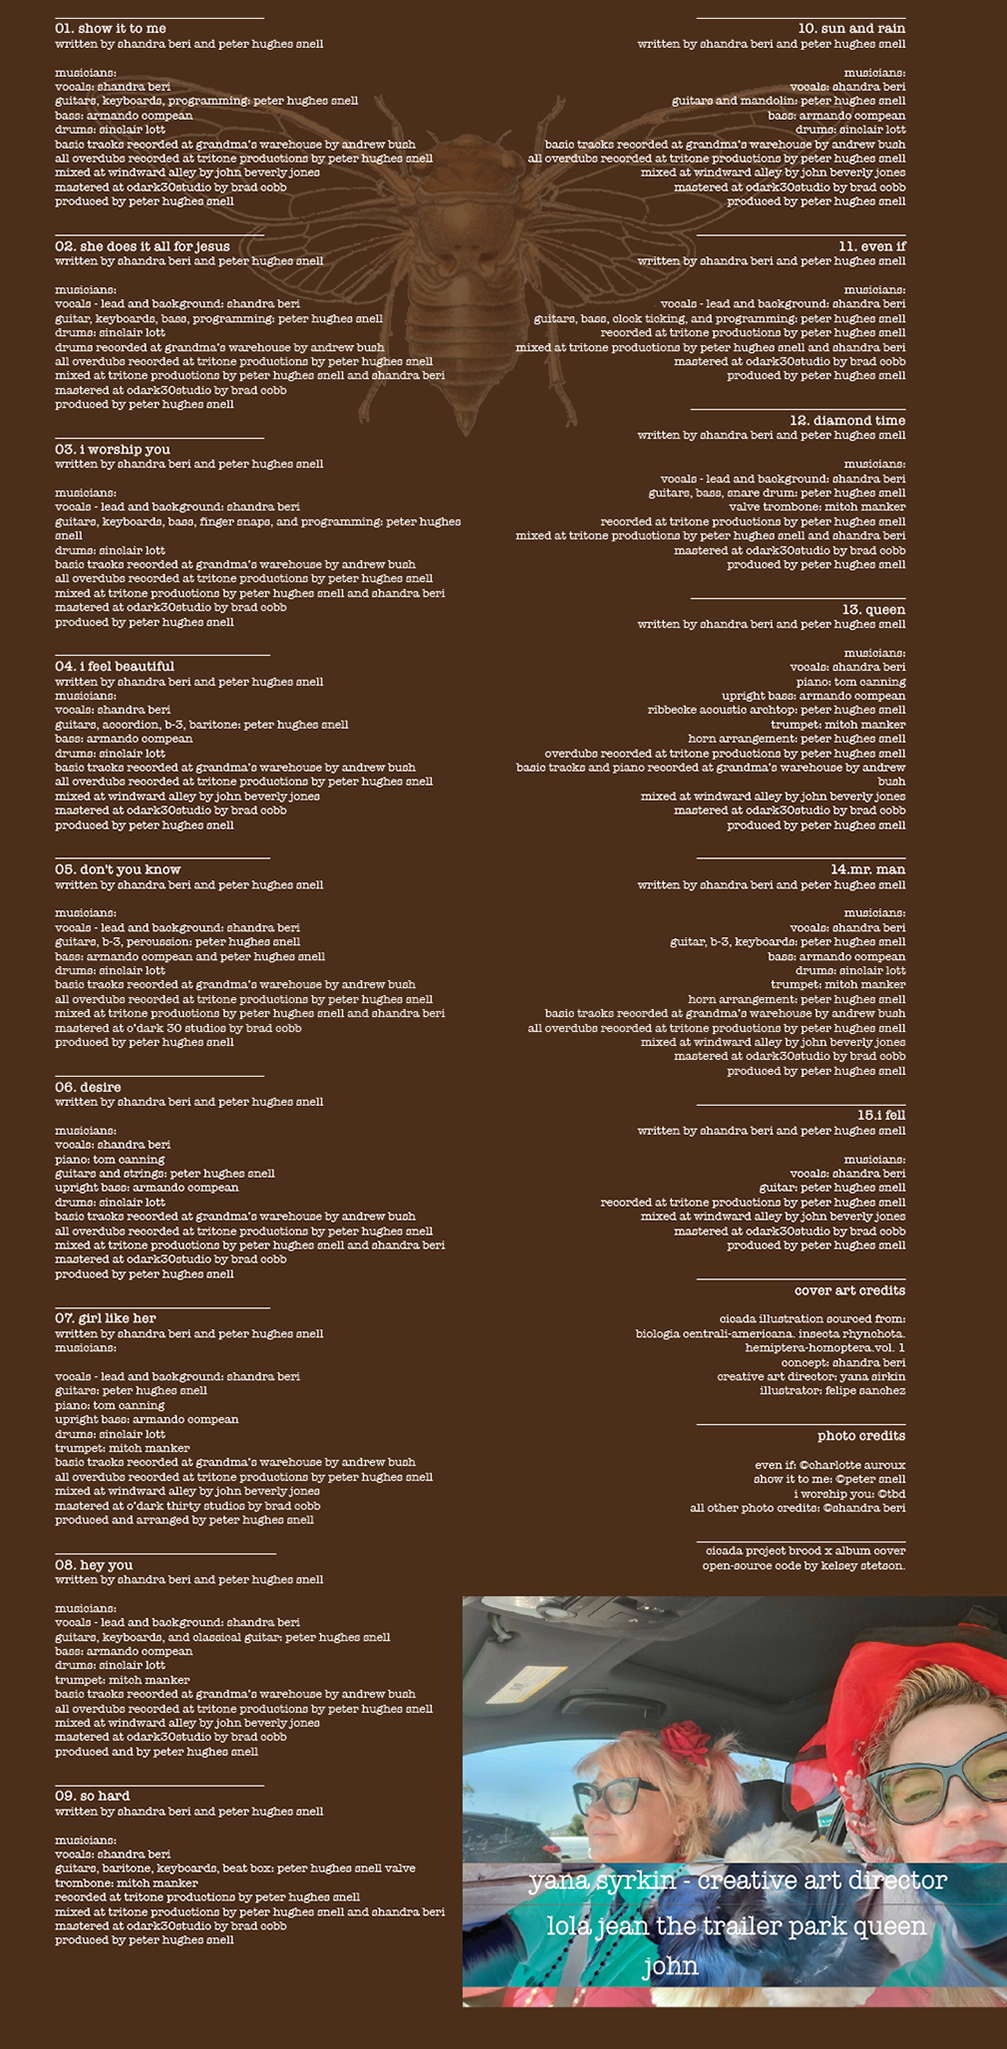
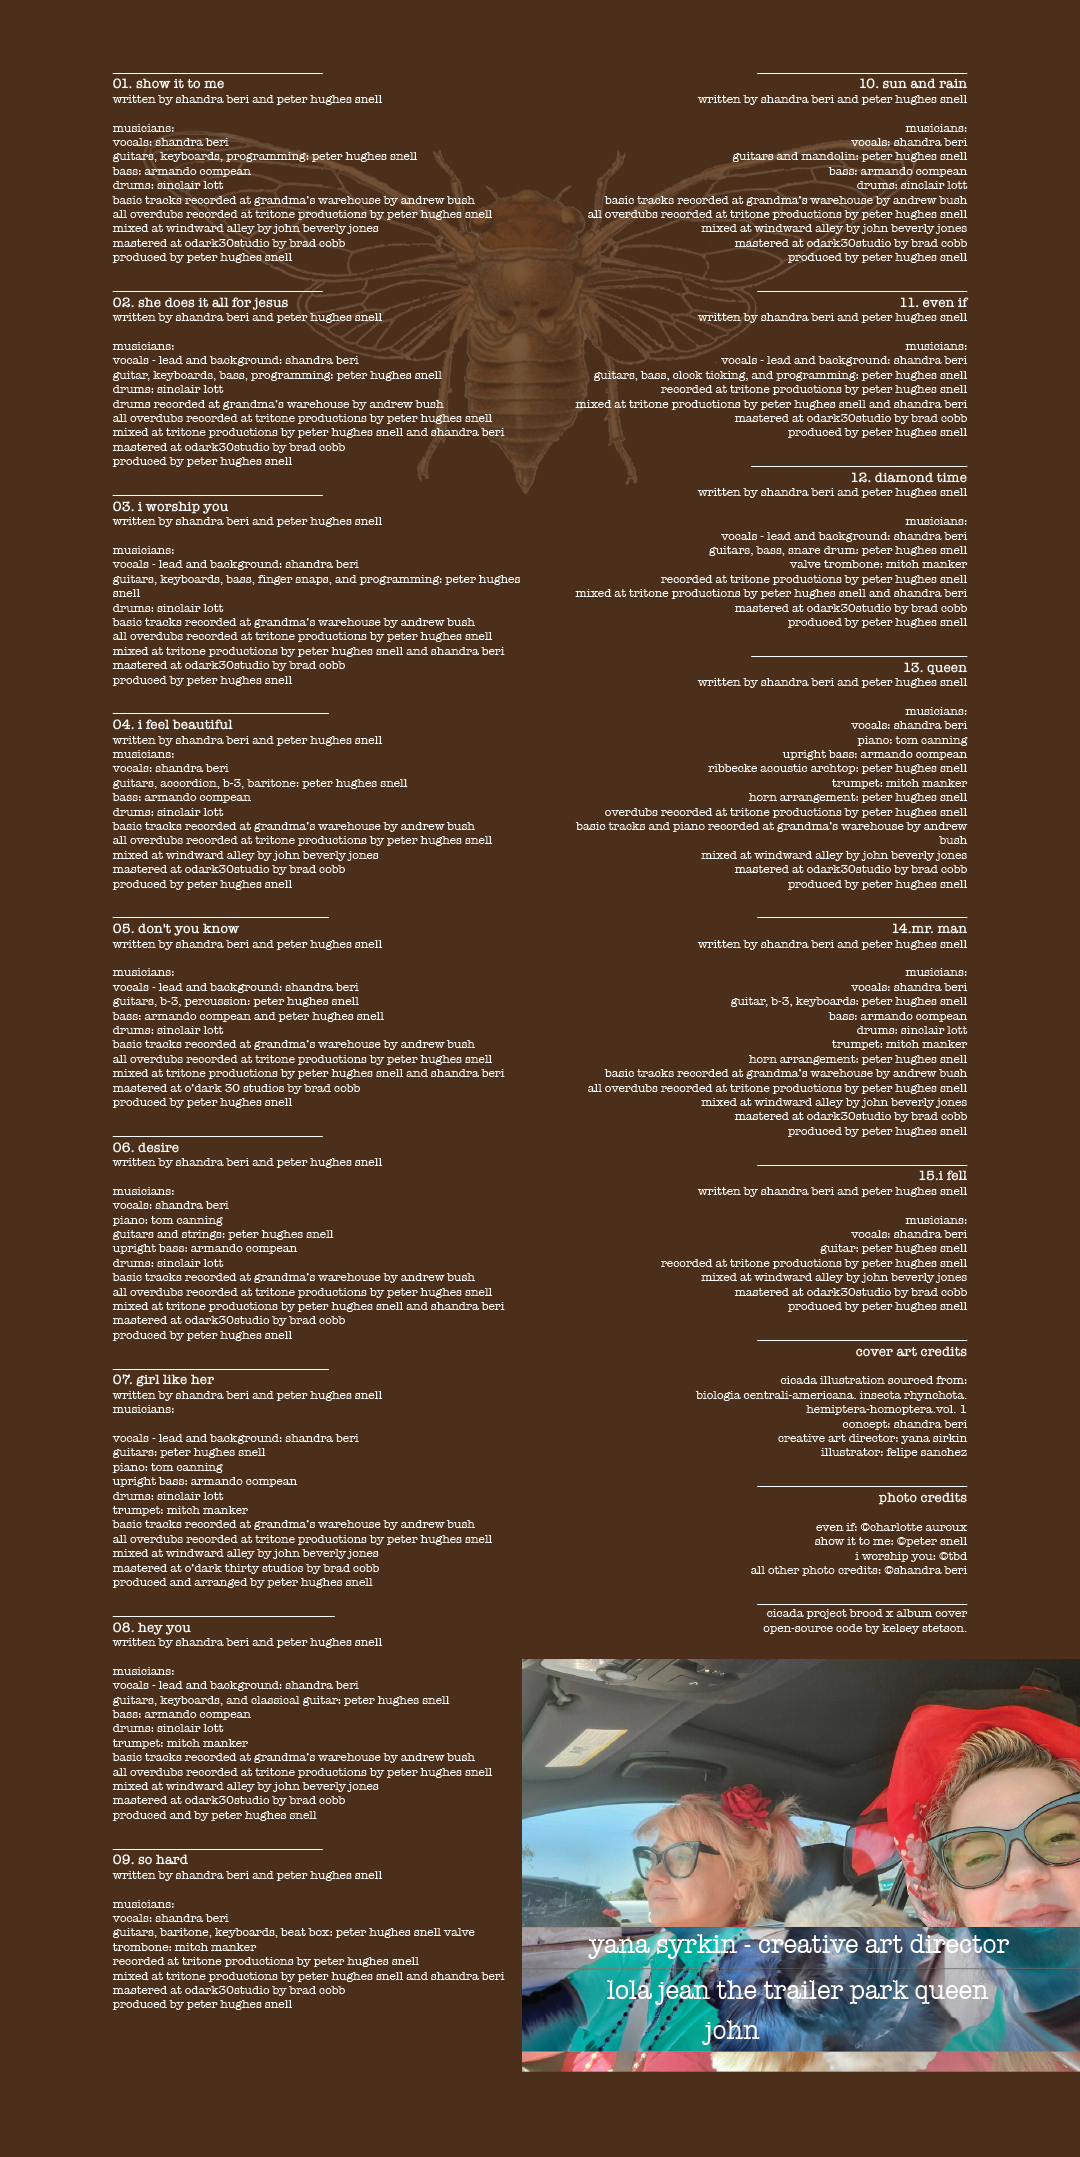
credit page updates

Changed region(s): [[0.0308, 0.0, 1.0, 0.9995]]

diff --git a/credits.html b/credits.html
@@ -77,8 +77,6 @@ align-content: center;
   max-width: 100vw;
   display: block;
   margin: 0 auto;
-  padding-top: 25px;
-  padding-left: 10px;
   background-color: #4C2F1B;
 }
 
@@ -90,6 +88,7 @@ align-content: center;
 .mayhem a:hover {
   font-size: 14px;
   color: #8A9FC0 !important;
+  cursor: default;
 }
 
 .title {
